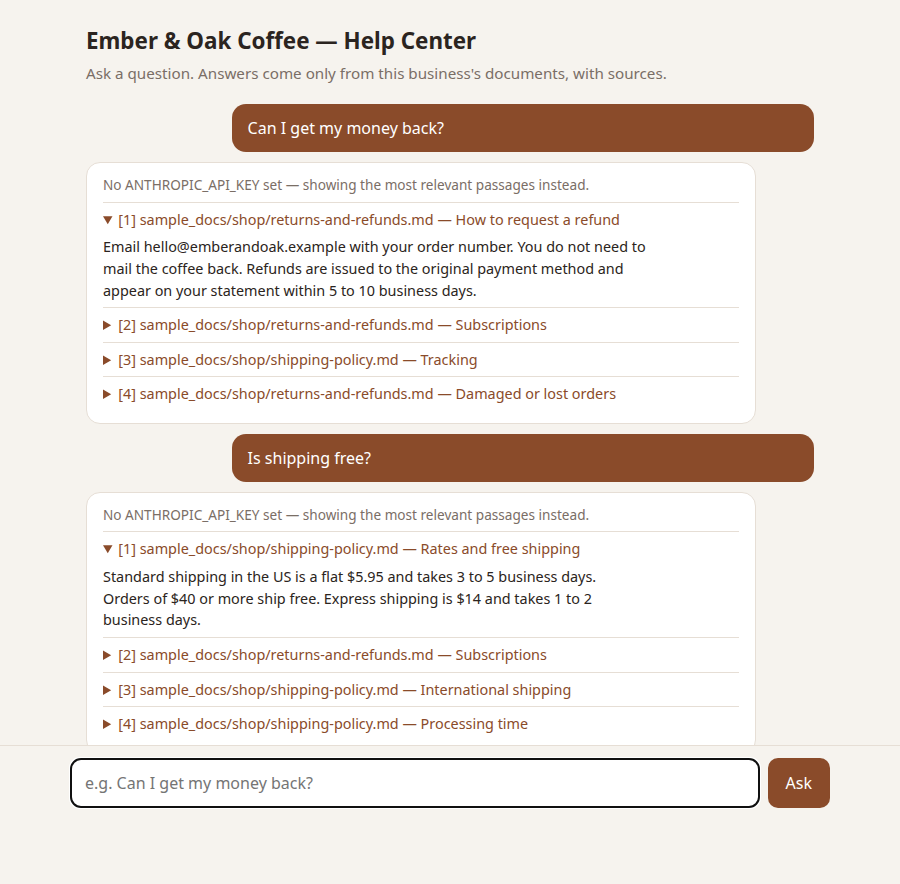
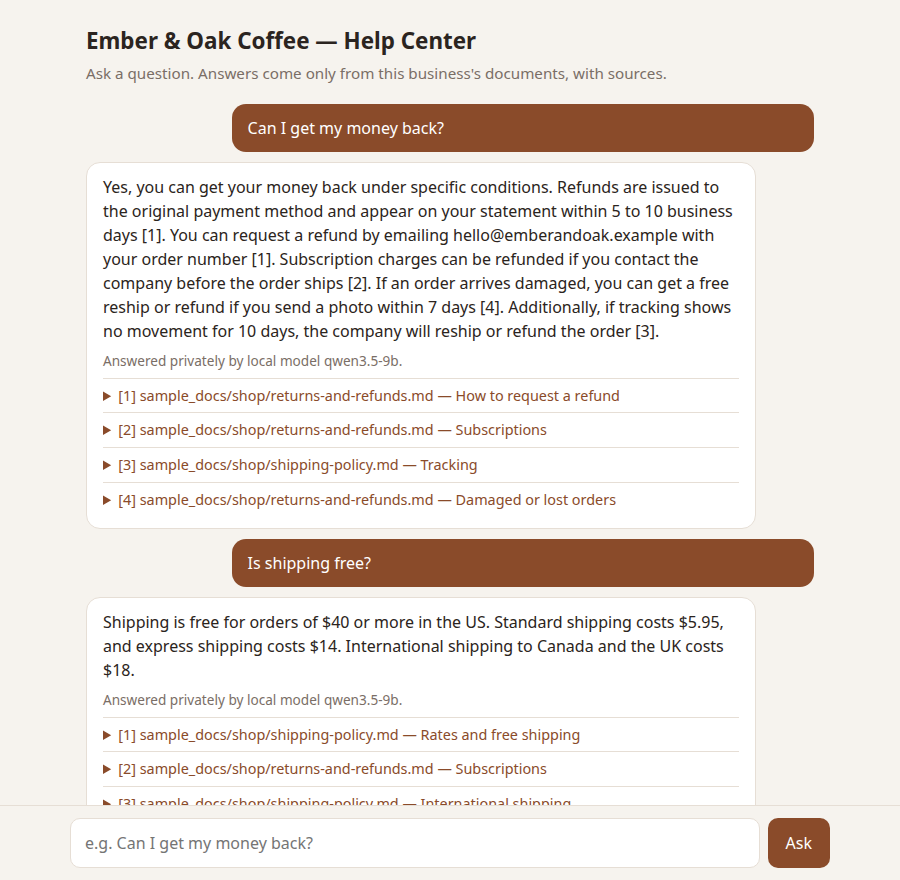
Private local-model answers (RAGKIT_LLM_URL), plain-text answers, real-answer screenshot
Claude-Session: https://claude.ai/code/session_017WxrAA5dRtKVKCkEC3LgLw

diff --git a/ragkit/answer.py b/ragkit/answer.py
@@ -7,8 +7,11 @@ context itself — so the demo is useful (and honest) with zero setup.
 
 from __future__ import annotations
 
+import json
 import os
+import re
 import textwrap
+import urllib.request
 
 from .retriever import Hit
 
@@ -22,6 +25,7 @@ SYSTEM_PROMPT = textwrap.dedent(
     - If the answer is not in the context, say so plainly. Do not invent facts.
     - Cite the sources you used by their [n] marker inline.
     - Be concise and direct.
+    - Plain text only, no Markdown formatting (no **bold** or headings). Use "- " for lists.
     """
 ).strip()
 
@@ -40,6 +44,8 @@ def synthesize(question: str, hits: list[Hit], model: str | None = None) -> tupl
     callers can fall back to showing the retrieved passages.
     """
 
+    if not os.environ.get("ANTHROPIC_API_KEY") and os.environ.get("RAGKIT_LLM_URL"):
+        return _synthesize_local(question, hits)
     if not os.environ.get("ANTHROPIC_API_KEY"):
         return None, "No ANTHROPIC_API_KEY set — showing the most relevant passages instead."
     try:
@@ -61,6 +67,36 @@ def synthesize(question: str, hits: list[Hit], model: str | None = None) -> tupl
     )
     parts = [block.text for block in resp.content if getattr(block, "type", None) == "text"]
     return "\n".join(parts).strip(), f"Answered by {model or DEFAULT_MODEL}."
+
+
+def _synthesize_local(question: str, hits: list[Hit]) -> tuple[str | None, str]:
+    """Private mode: any OpenAI-compatible server (llama.cpp, Ollama, LM Studio,
+    vLLM) at RAGKIT_LLM_URL, e.g. http://127.0.0.1:11434/v1. Stdlib only — the
+    documents never leave the machine."""
+    base = os.environ["RAGKIT_LLM_URL"].rstrip("/")
+    model = os.environ.get("RAGKIT_LLM_MODEL", "local")
+    body = json.dumps({
+        "model": model,
+        "messages": [
+            {"role": "system", "content": SYSTEM_PROMPT},
+            {"role": "user", "content": f"Context passages:\n\n{_format_context(hits)}\n\nQuestion: {question}"},
+        ],
+        "max_tokens": 700,
+        "temperature": 0.2,
+        # Server-specific knobs, e.g. '{"chat_template_kwargs": {"enable_thinking": false}}'
+        # to stop a reasoning model spending its whole budget thinking.
+        **json.loads(os.environ.get("RAGKIT_LLM_EXTRA", "{}")),
+    }).encode()
+    req = urllib.request.Request(f"{base}/chat/completions", body, {"Content-Type": "application/json"})
+    try:
+        with urllib.request.urlopen(req, timeout=120) as r:
+            text = json.loads(r.read())["choices"][0]["message"]["content"]
+    except (OSError, KeyError, ValueError) as e:
+        return None, f"Local model at {base} unavailable ({type(e).__name__}) — showing passages instead."
+    text = re.sub(r"<think>.*?</think>", "", text or "", flags=re.S).strip()
+    if not text:
+        return None, f"Local model {model} returned no answer — showing passages instead."
+    return text, f"Answered privately by local model {model}."
 
 
 def answer_question(question: str, hits: list[Hit], model: str | None = None) -> str:

diff --git a/tests/test_local_llm.py b/tests/test_local_llm.py
@@ -1,0 +1,61 @@
+"""Private mode: an OpenAI-compatible local server answers; if it's down we
+fall back to passages instead of crashing."""
+
+import json
+import threading
+from http.server import BaseHTTPRequestHandler, HTTPServer
+
+from ragkit import chunk_documents, load_docs
+from ragkit.answer import synthesize
+from ragkit.retriever import Retriever
+
+
+def _hits():
+    chunks = chunk_documents(load_docs("sample_docs/shop"))
+    return Retriever(chunks).search("can I get my money back?", k=3)
+
+
+def test_local_server_answers(monkeypatch):
+    seen = {}
+
+    class H(BaseHTTPRequestHandler):
+        def do_POST(self):
+            seen["body"] = json.loads(self.rfile.read(int(self.headers["Content-Length"])))
+            out = json.dumps({"choices": [{"message": {"content": "Yes, email us [1]."}}]}).encode()
+            self.send_response(200); self.end_headers(); self.wfile.write(out)
+
+        def log_message(self, *a):
+            pass
+
+    srv = HTTPServer(("127.0.0.1", 0), H)
+    threading.Thread(target=srv.handle_request, daemon=True).start()
+    monkeypatch.delenv("ANTHROPIC_API_KEY", raising=False)
+    monkeypatch.setenv("RAGKIT_LLM_URL", f"http://127.0.0.1:{srv.server_port}/v1")
+    answer, note = synthesize("can I get my money back?", _hits())
+    assert answer == "Yes, email us [1]." and "local model" in note
+    assert "refund" in seen["body"]["messages"][1]["content"].lower()
+
+
+def test_local_server_down_falls_back(monkeypatch):
+    monkeypatch.delenv("ANTHROPIC_API_KEY", raising=False)
+    monkeypatch.setenv("RAGKIT_LLM_URL", "http://127.0.0.1:9/v1")
+    answer, note = synthesize("refund?", _hits())
+    assert answer is None and "unavailable" in note
+
+
+def test_empty_local_answer_falls_back(monkeypatch):
+    class H(BaseHTTPRequestHandler):
+        def do_POST(self):
+            self.rfile.read(int(self.headers["Content-Length"]))
+            out = json.dumps({"choices": [{"message": {"content": "<think>hmm</think>"}}]}).encode()
+            self.send_response(200); self.end_headers(); self.wfile.write(out)
+
+        def log_message(self, *a):
+            pass
+
+    srv = HTTPServer(("127.0.0.1", 0), H)
+    threading.Thread(target=srv.handle_request, daemon=True).start()
+    monkeypatch.delenv("ANTHROPIC_API_KEY", raising=False)
+    monkeypatch.setenv("RAGKIT_LLM_URL", f"http://127.0.0.1:{srv.server_port}/v1")
+    answer, note = synthesize("refund?", _hits())
+    assert answer is None and "no answer" in note

diff --git a/README.md b/README.md
@@ -11,15 +11,15 @@ chat page for your site or your support team.
 ![ragkit answering questions about a coffee shop's refund and shipping policies](docs/screenshot.png)
 
 *The demo above runs on a fictional coffee roaster's docs that ship with this
-repo, with no API key — it shows the matching passages. Add a Claude API key
-and it writes a short answer in plain English, citing those same sources.*
+repo. Written answers come from Claude or a free local model; with neither set
+up, it still works and shows the matching passages.*
 
 ## Why a business would want this
 
 - **Answers only from your documents.** It cites the policy section it used,
   and says so when the answer isn't there instead of making something up.
-- **Private by default.** Runs on your own machine or server; your documents
-  never go anywhere unless you turn on Claude answers.
+- **Private by default.** Runs on your own machine or server. Pair it with a
+  local model and your documents never leave the building.
 - **Cheap to run.** Search is built in and free. Claude answers use a
   low-cost model by default.
 - **Easy to update.** Change a policy file and restart — no retraining.
@@ -35,7 +35,7 @@ You need Python 3.10 or newer. Nothing else to install.
    ```
 2. **Start the chat page with the sample coffee-shop docs**
    ```bash
-   python -m ragkit.web --docs sample_docs/shop
+   python -m ragkit.web --docs sample_docs/shop --title "Ember & Oak Coffee — Help Center"
    ```
 3. **Open http://127.0.0.1:8000** and ask *"Can I get my money back?"* or
    *"Is shipping free?"*
@@ -48,6 +48,7 @@ Press `Ctrl+C` in the terminal to stop it.
 | Want | Do this |
 |---|---|
 | Written answers from Claude | `pip install anthropic` and set `ANTHROPIC_API_KEY` |
+| Written answers, fully private | Point `RAGKIT_LLM_URL` at any OpenAI-compatible local server (Ollama, llama.cpp, LM Studio), e.g. `http://127.0.0.1:11434/v1`, and set `RAGKIT_LLM_MODEL` |
 | Read PDF files | `pip install pypdf` |
 | Read Word (.docx) files | `pip install python-docx` |
 
@@ -81,8 +82,10 @@ load_docs → chunk_documents → Retriever.search → answer
   and a small, editable synonym map (`ragkit.retriever.SYNONYMS`) so customer
   wording ("money back") matches policy wording ("refund"). The only method
   callers depend on is `search`, so an embedding retriever drops straight in.
-- **Answer** — Claude answers *only* from the retrieved passages and cites
-  them; with no key set, ragkit returns the ranked passages instead.
+- **Answer** — Claude (or a local OpenAI-compatible model via `RAGKIT_LLM_URL`)
+  answers *only* from the retrieved passages and cites them; with neither,
+  ragkit returns the ranked passages instead. `RAGKIT_LLM_EXTRA` passes
+  server-specific JSON (e.g. to switch off a reasoning model's thinking).
 
 ### Web UI
 
